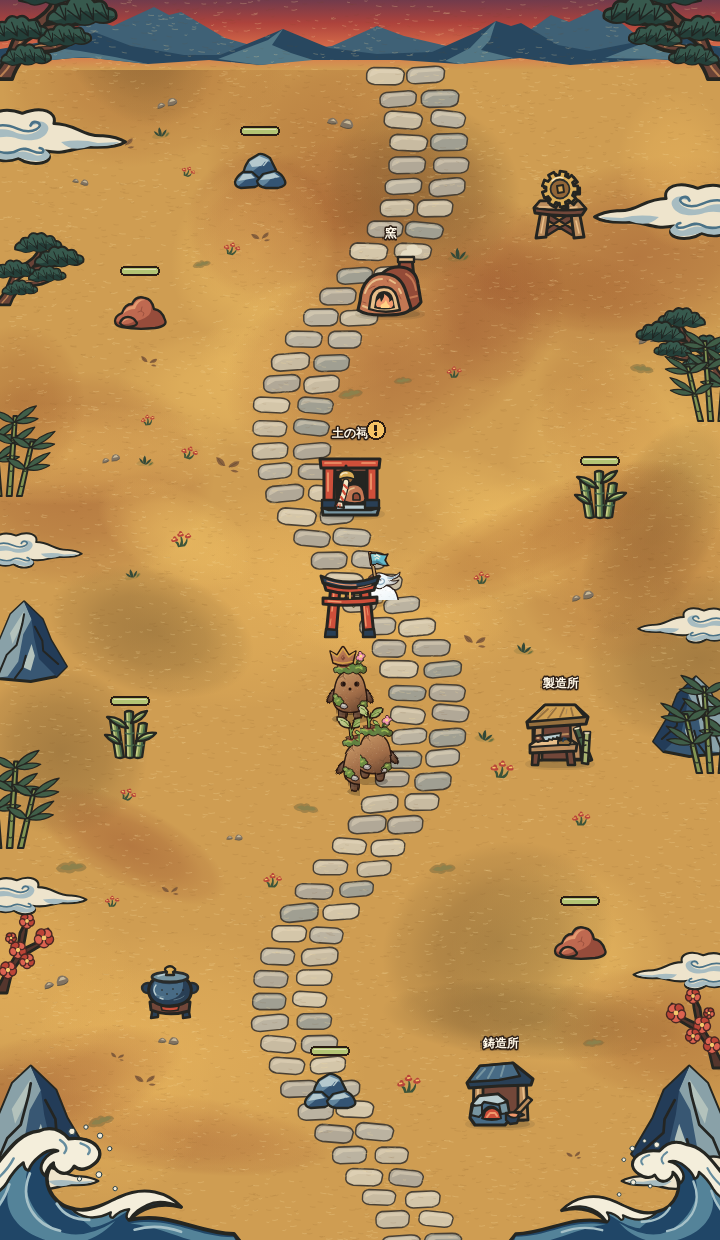
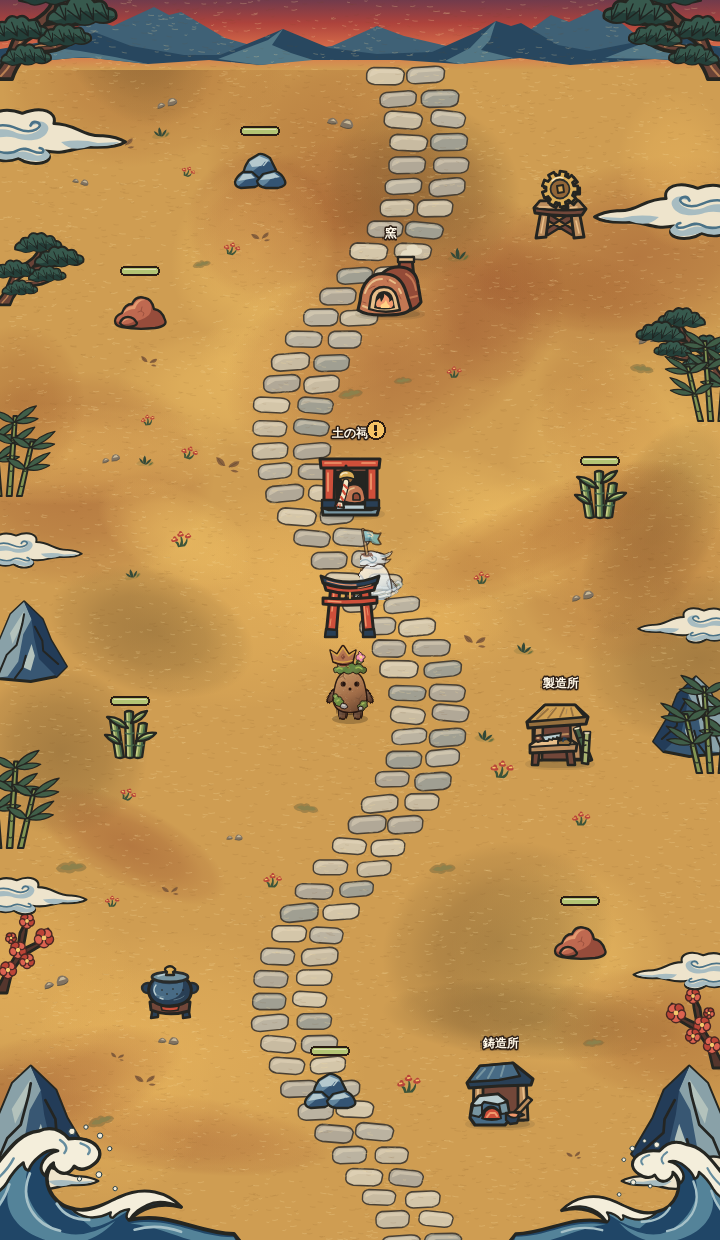
点検（Codex）を受けて直す：外周の飾り（雲・波・松など）はパテより奥に描き、歩ける範囲に張り出してもパテや置物を隠さない
Claude-Session: https://claude.ai/code/session_01SteCXofdUXaXf7ixTwW4tL

Changed region(s): [[0.4583, 0.521, 0.55, 0.6435], [0.4889, 0.429, 0.5806, 0.4903]]

diff --git a/src/scenes/textures.ts b/src/scenes/textures.ts
@@ -373,7 +373,8 @@ export function drawGround(scene: Phaser.Scene, width: number, height: number): 
     }
   });
 
-  bake('ground-hedge', 5000, (ctx) => {
+  // 外周の飾りは地面のすぐ上（パテ・置物・名物より奥）に描く。歩ける範囲に張り出しても、パテを隠さないように
+  bake('ground-hedge', 1, (ctx) => {
     const { left, right, top, bottom } = FIELD;
     // 左右の岩、松、竹、梅を外側から差し込む。
     const onBank = (x: number, y: number, scale: number, side: number, draw: () => void) => {
